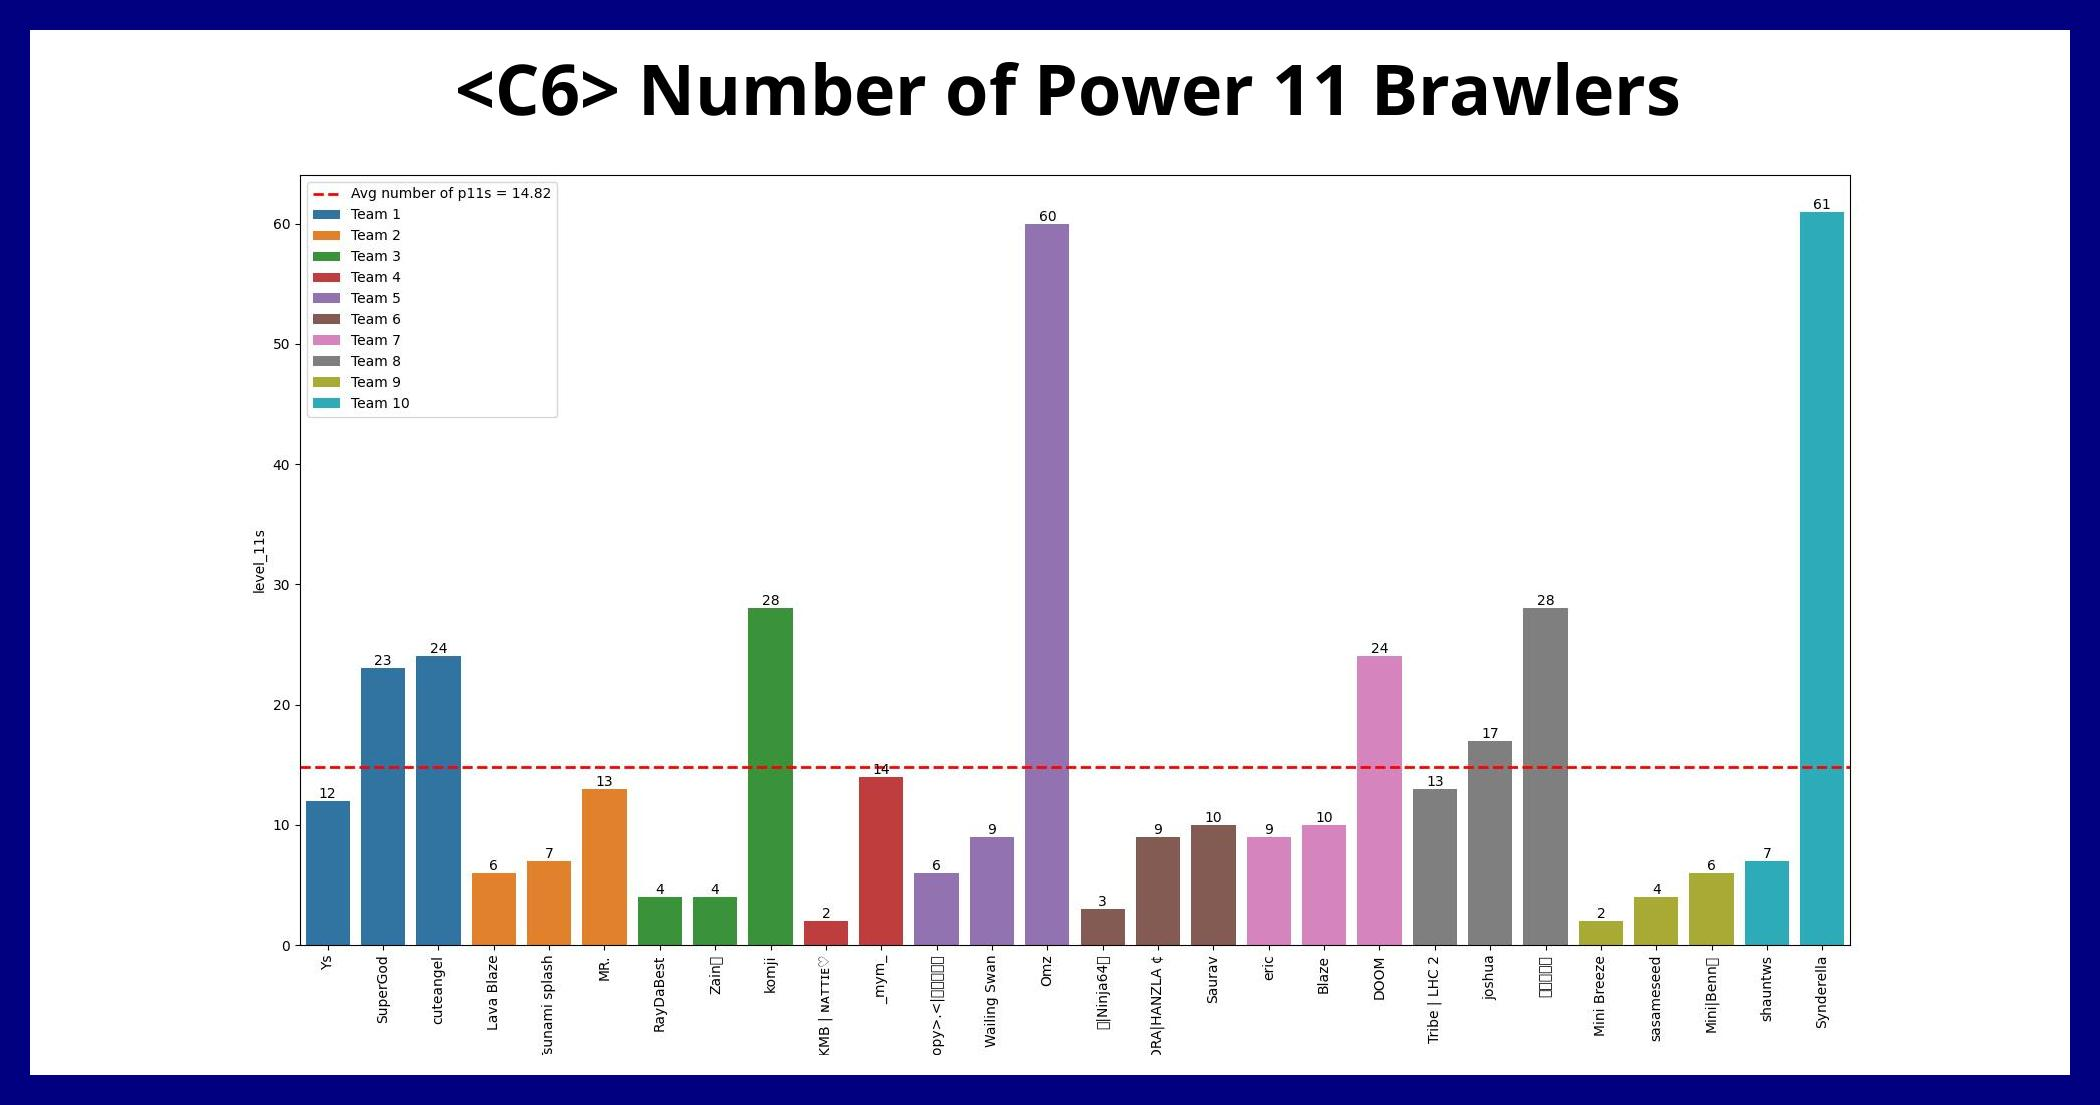
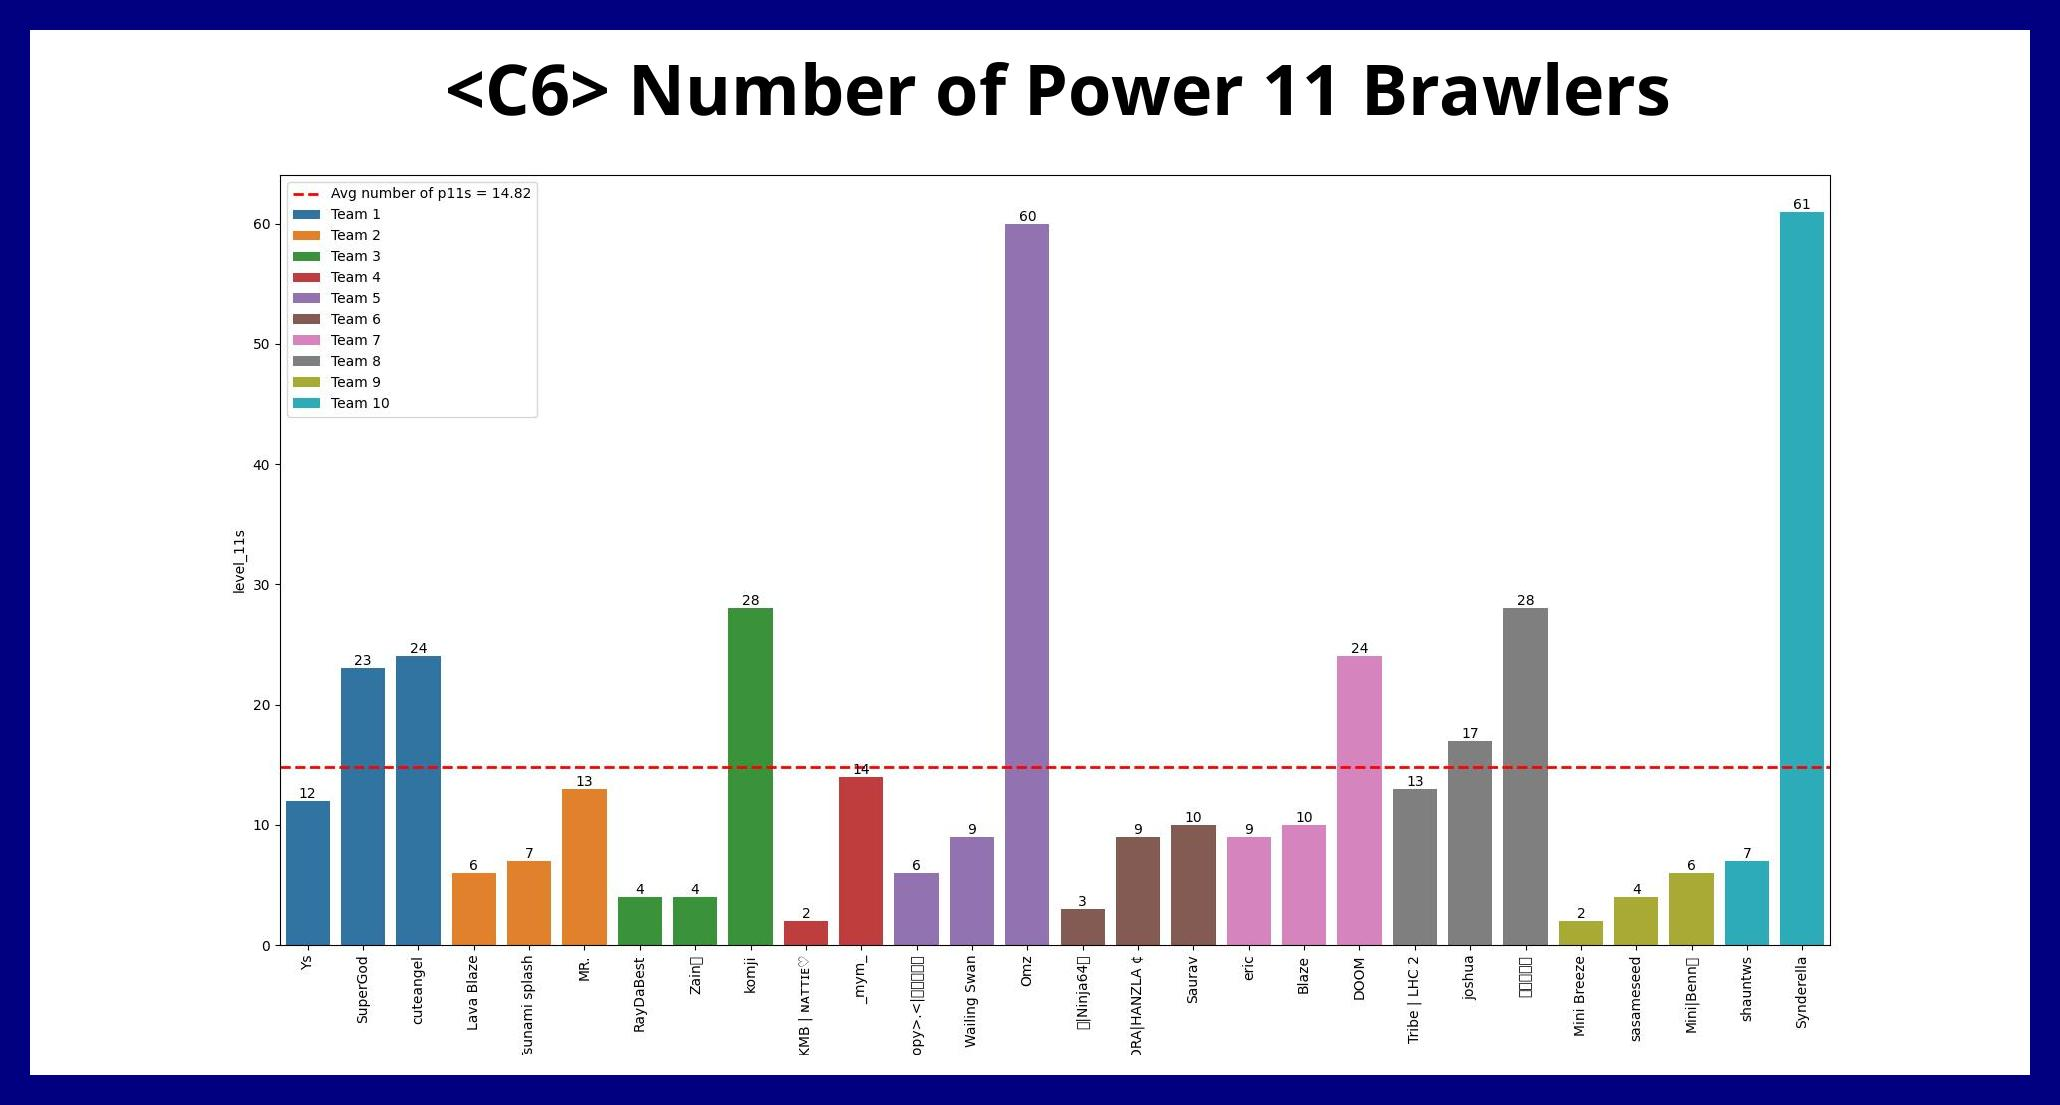
remove left and right whitespace for barchart

diff --git a/aura.py b/aura.py
@@ -237,8 +237,8 @@ pad_add_text(comparison_c9_png, [93, 20, 20, 20], 40, (265, 25), "<C9> & <C6> Co
 pad_add_text(comparison_c6_png, [93, 20, 20, 20], 40, (265, 25), "<C9> & <C6> Comparison Stats", comparison_c6_png, 'navy', 15)
 
 # Barchart
-pad_add_text(c9_barchart, [25, 20, 20, 20], 70, (455, 40), "<C9> Number of Power 11 Brawlers", c9_barchart, 'maroon', 30)
-pad_add_text(c6_barchart, [25, 20, 20, 20], 70, (455, 40), "<C6> Number of Power 11 Brawlers", c6_barchart, 'navy', 30)
+pad_add_text(c9_barchart, [25, 0, 20, 0], 70, (445, 40), "<C9> Number of Power 11 Brawlers", c9_barchart, 'maroon', 30)
+pad_add_text(c6_barchart, [25, 0, 20, 0], 70, (445, 40), "<C6> Number of Power 11 Brawlers", c6_barchart, 'navy', 30)
 
 # Team Averages
 pad_add_text(c9_team_averages_png, [40, 20, 20, 20], 22, (200, 12), "<C9> Team Averages", c9_team_averages_png, 'maroon', 8)
